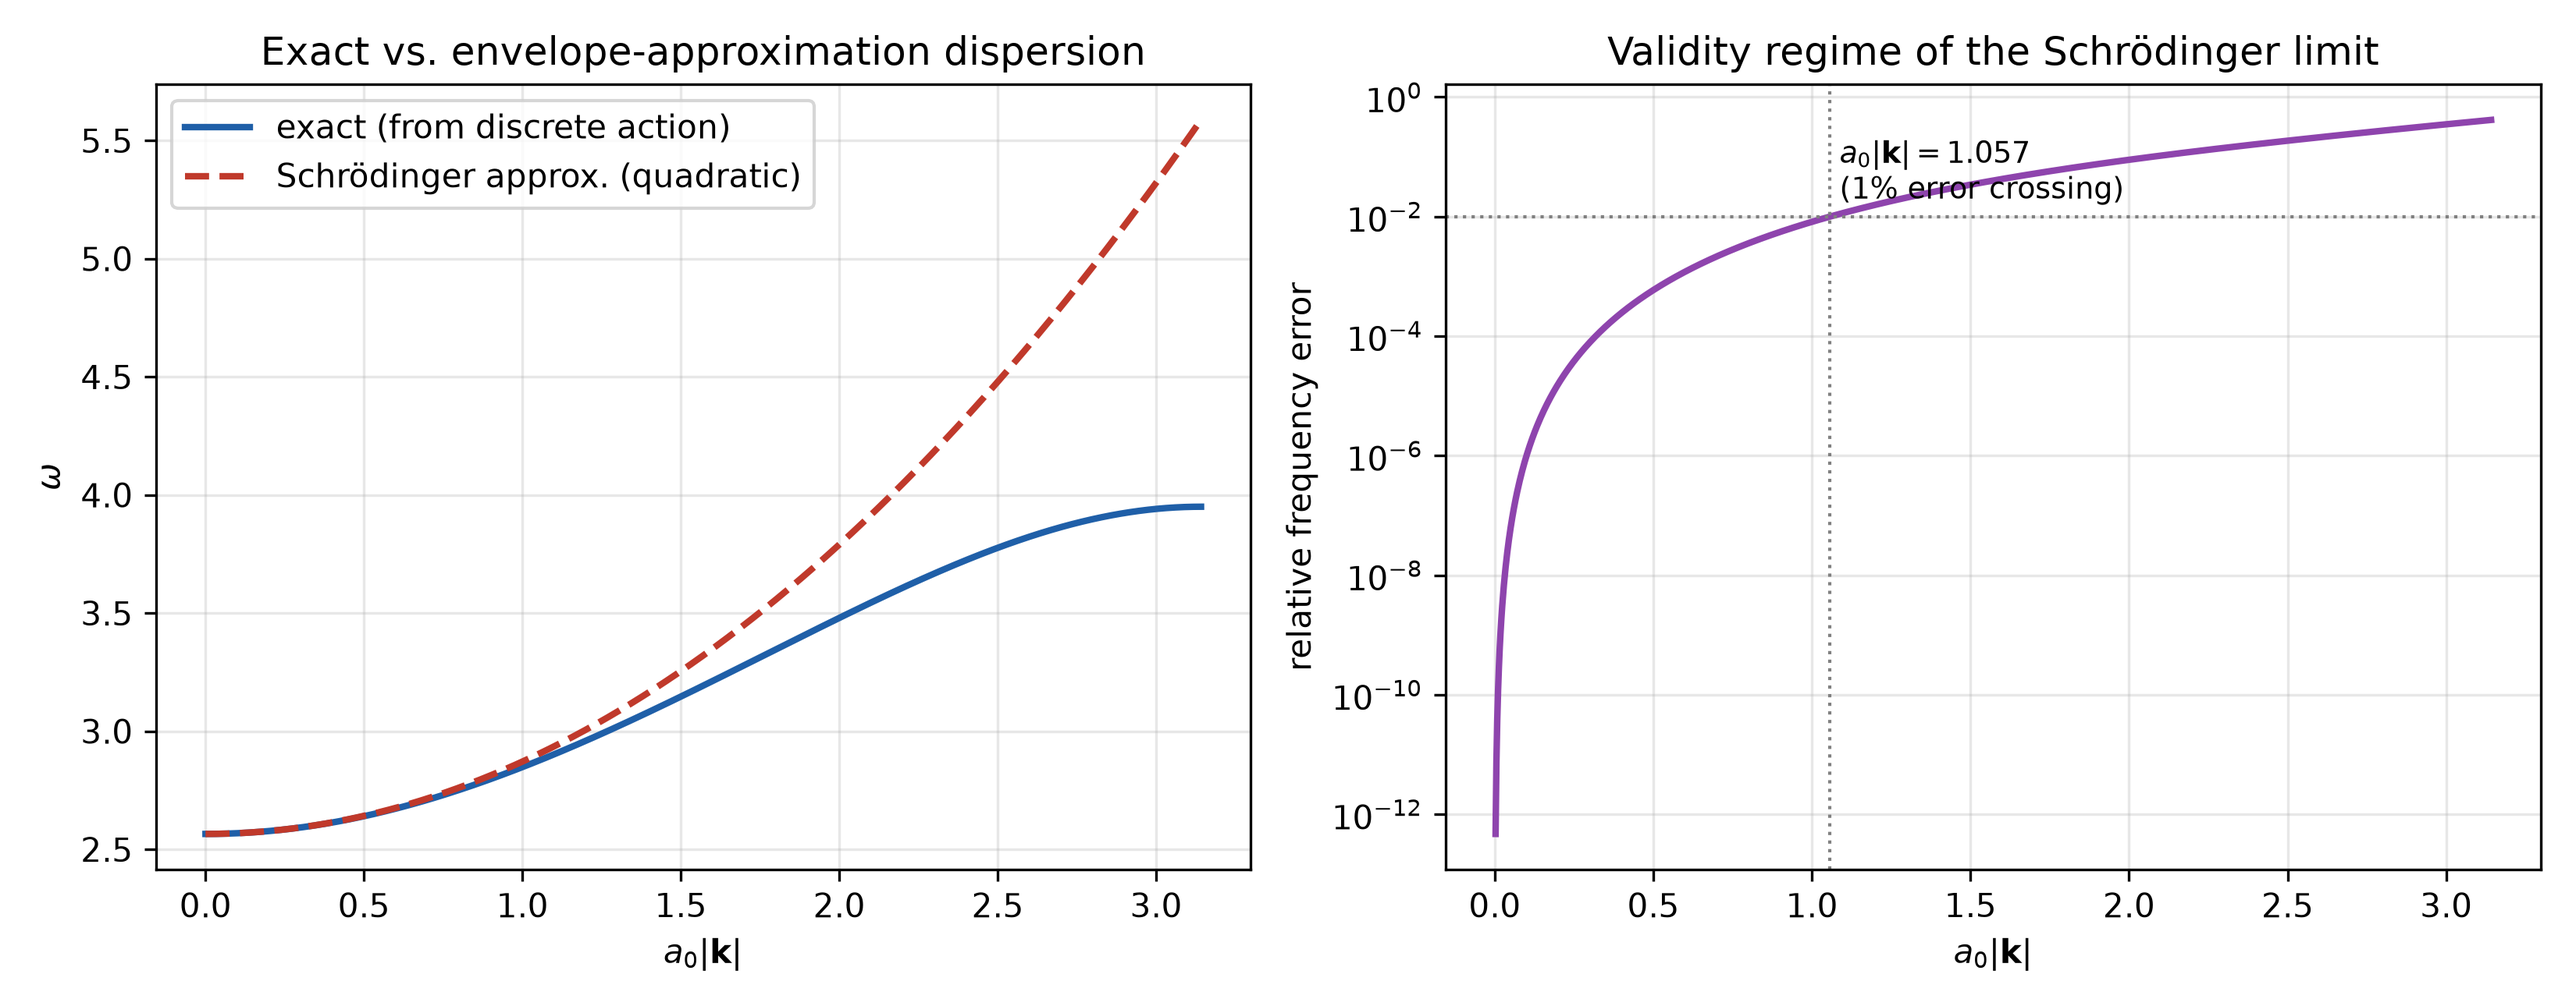
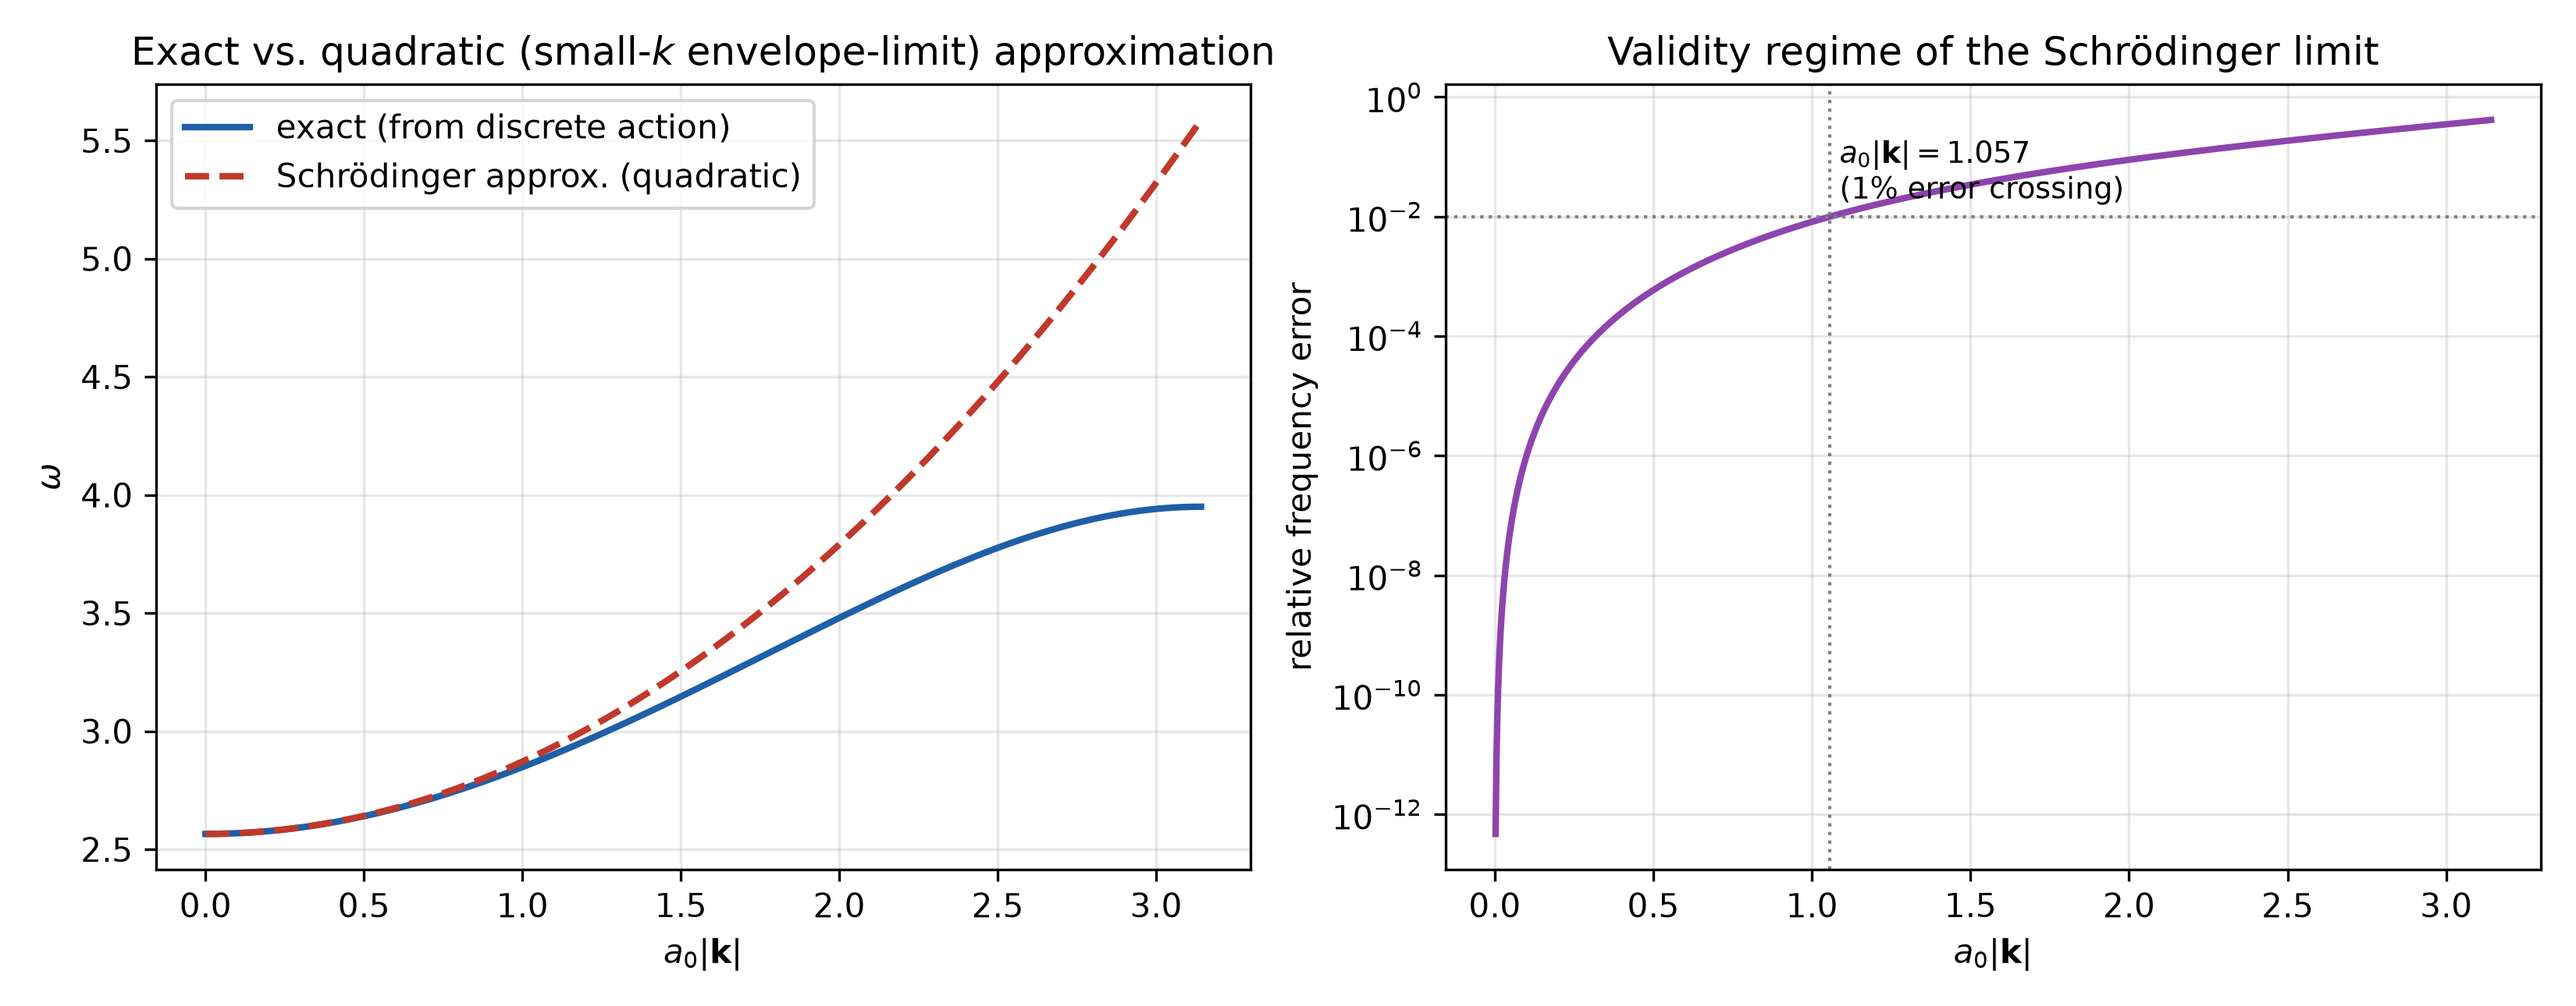
G-C13r R-3 (run 11, EXP-1110): caption + Fig. 6 left title 'envelope approximation' -> 'quadratic (small-k envelope-limit) approximation'
Wording-only amendment per adjudicator record fix R-3 (adj/G-C13r_trace.md): the plotted
curve is the l.516 quadratic omega_quad, not the l.512 lattice envelope. Caption l.537 and the
fig06.png left-panel title changed; no number, table entry or data changed. fig06 regenerated by
w-gc13r2 r2fig_gc13r2.py (log r2fig_v1.log, EXIT=0): 34 RESULTS quantities vs RESULTS_R1.json max
rel diff 1.0e-20; pixel differences confined to the title band, 0 inside either axes box.
'PREDICTION' heading kept (R-6 is the author's call). Not pushed, not merged.

Changed region(s): [[0.0624, 0.031, 0.4994, 0.062]]

diff --git a/programme/v94/IRH_v94.tex b/programme/v94/IRH_v94.tex
@@ -534,7 +534,7 @@ $\pi$ (zone edge) & 41\% & 8.0\% -- 248\% \\
 \begin{figure}[htbp]
 \centering
 \includegraphics[width=0.92\linewidth]{figs/fig06.png}
-\caption{\textbf{Figure 6.} Exact dispersion against the envelope approximation, and the resulting relative error, along $\mathbf k\parallel e_1$ (zone-edge facet direction) for $a_0=c=M^{*}=1$, $J=M^{*}c^2/12$, $\theta=\pi/2$, $\Delta t=\Delta t_{\max}(\theta)=\sqrt{3/8}\,a_0/c$; error $=|\omega_{\rm quad}-\omega_{\rm exact}|/\omega_{\rm exact}$. The dotted lines mark the 1\% level and its crossing at $a_0|\mathbf k|=1.057$.}
+\caption{\textbf{Figure 6.} Exact dispersion against the quadratic (small-$k$ envelope-limit) approximation, and the resulting relative error, along $\mathbf k\parallel e_1$ (zone-edge facet direction) for $a_0=c=M^{*}=1$, $J=M^{*}c^2/12$, $\theta=\pi/2$, $\Delta t=\Delta t_{\max}(\theta)=\sqrt{3/8}\,a_0/c$; error $=|\omega_{\rm quad}-\omega_{\rm exact}|/\omega_{\rm exact}$. The dotted lines mark the 1\% level and its crossing at $a_0|\mathbf k|=1.057$.}
 \end{figure}
 
 At $\theta=\pi/2$ the approximation is accurate to better than 1\% for $a_0|\mathbf k|<1.057$, with the error growing as $(a_0|\mathbf k|)^4$ at small $k$ and reaching 41\% at the zone edge. The 1\% crossing depends on the free carrier angle: it lies between $a_0|\mathbf k|=0.346$ ($\theta=\pi/6$) and $1.908$ ($\theta=5\pi/6$), so the earlier statement ``under 1\% for $a_0|\mathbf k|\lesssim0.3$'' holds throughout $\theta\in[\pi/6,5\pi/6]$ but not for small carriers (at $\theta=\pi/12$ the crossing is $0.173$). This is a quantified boundary at stated parameters rather than an assumed one.
